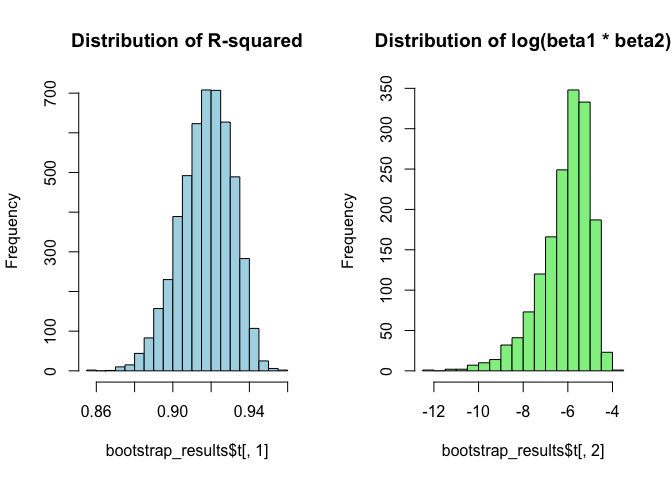
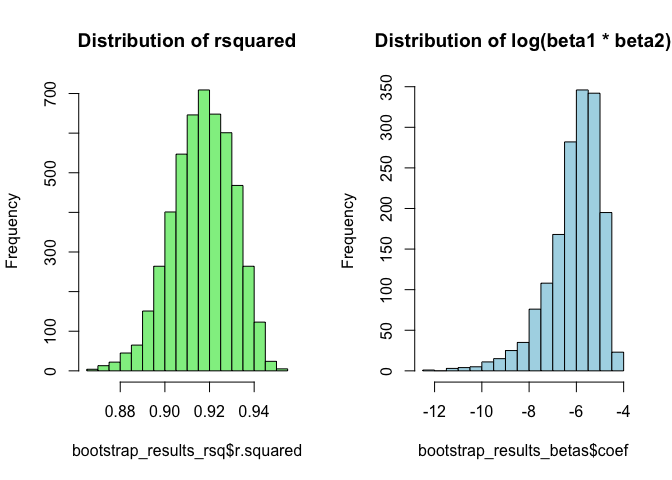
make some comments

diff --git a/p8105_hw6_sc5352.md b/p8105_hw6_sc5352.md
@@ -73,33 +73,6 @@ weather_df =
     ## file min/max dates: 1869-01-01 / 2023-11-30
 
 ``` r
-# lm_weather = lm(tmax ~ tmin + prcp, data = weather_df)
-# 
-# bootstrap_function = function(data, indices) {
-#   sampled_data = data[indices, ]
-#   lm_weather = lm(tmax ~ tmin + prcp, data = sampled_data)
-#   
-#   rsquared = glance(lm_weather)$r.squared
-#   coef_product = log(tidy(lm_weather)$estimate[2] * tidy(lm_weather)$estimate[3])
-#   
-#   return(c(rsquared, coef_product))
-# }
-# 
-# set.seed(123)
-# 
-# bootstrap_results <- boot(data = weather_df, statistic = bootstrap_function, R = 5000)
-# 
-# par(mfrow = c(1, 2))  # Set up a 1x2 grid for side-by-side plots
-# hist(bootstrap_results$t[, 1], main = "Distribution of R-squared", col = "lightblue")
-# hist(bootstrap_results$t[, 2], main = "Distribution of log(beta1 * beta2)", col = "lightgreen")
-# par(mfrow = c(1, 1))  # Reset the plot layout
-# 
-# # Identify the 2.5% and 97.5% quantiles
-# quantiles <- quantile(bootstrap_results$t, c(0.025, 0.975), na.rm = TRUE)
-# print(quantiles)
-```
-
-``` r
 set.seed(1)
 boot_sample = function(df) {
   sample_frac(df, replace = TRUE)
@@ -122,6 +95,20 @@ bootstrap_results_betas =
   pivot_wider(names_from = term, values_from = estimate) |>
   mutate(coef = log(tmin * prcp))
 
+proportion_coef_na = 
+  bootstrap_results_betas |>
+  filter(is.na(coef)) |>
+  summarise(count = n()) |>
+  mutate(proportion = count/5000)
+proportion_coef_na
+```
+
+    ## # A tibble: 1 × 2
+    ##   count proportion
+    ##   <int>      <dbl>
+    ## 1  3361      0.672
+
+``` r
 quantile_betas = 
   bootstrap_results_betas |>
   na.omit() |>
@@ -165,11 +152,17 @@ hist(bootstrap_results_rsq$r.squared, main = "Distribution of rsquared", col = "
 hist(bootstrap_results_betas$coef, main = "Distribution of log(beta1 * beta2)", col = "lightblue")
 ```
 
-![](p8105_hw6_sc5352_files/figure-gfm/unnamed-chunk-4-1.png)<!-- -->
+![](p8105_hw6_sc5352_files/figure-gfm/unnamed-chunk-3-1.png)<!-- -->
 
 ``` r
 par(mfrow = c(1, 1))
 ```
+
+After taking log of the beta 1 and 2, there are in total 3361 NAs, which
+account for about 67% of the whole dataset. For those `coef` are
+significant, the 95% quantile is -8.9815594, -4.6016727.
+
+The 95% quantile for `r_squared` is 0.8885495, 0.9406812.
 
 #### Problem 3
 
@@ -190,37 +183,45 @@ birthweight =
 model_1 = lm(bwt ~ delwt + wtgain + blength, data = birthweight)
 prediction_1 = add_predictions(birthweight, model_1)
 residual_1 = add_residuals(prediction_1, model_1)
-ggplot(residual_1,aes(x = pred, y = resid)) +
-  geom_point() +
-  geom_hline(yintercept = 0, linetype = "dashed", color = "red") +
-  labs(title = "Residuals vs Fitted Values", x = "Fitted Values", y = "Residuals")
-```
 
-![](p8105_hw6_sc5352_files/figure-gfm/unnamed-chunk-5-1.png)<!-- -->
-
-``` r
 model_lg = lm(bwt ~ blength + gaweeks, data = birthweight)
 prediction_lg = add_predictions(birthweight, model_lg)
 residual_lg = add_residuals(prediction_lg, model_lg)
-ggplot(residual_lg,aes(x = pred, y = resid)) +
-  geom_point() +
-  geom_hline(yintercept = 0, linetype = "dashed", color = "red") +
-  labs(title = "Residuals vs Fitted Values", x = "Fitted Values", y = "Residuals")
-```
 
-![](p8105_hw6_sc5352_files/figure-gfm/unnamed-chunk-5-2.png)<!-- -->
-
-``` r
 model_hls = lm(bwt ~ bhead * blength * babysex, data = birthweight)
 prediction_hls = add_predictions(birthweight, model_hls)
 residual_hls = add_residuals(prediction_hls, model_hls)
+
+par(mfrow = c(1, 3))
+ggplot(residual_1,aes(x = pred, y = resid)) +
+  geom_point() +
+  geom_hline(yintercept = 0, linetype = "dashed", color = "red") +
+  labs(title = "Model_1: Residuals vs Fitted Values", x = "Fitted Values", y = "Residuals")
+```
+
+![](p8105_hw6_sc5352_files/figure-gfm/unnamed-chunk-4-1.png)<!-- -->
+
+``` r
+ggplot(residual_lg,aes(x = pred, y = resid)) +
+  geom_point() +
+  geom_hline(yintercept = 0, linetype = "dashed", color = "red") +
+  labs(title = "Model_lg: Residuals vs Fitted Values", x = "Fitted Values", y = "Residuals")
+```
+
+![](p8105_hw6_sc5352_files/figure-gfm/unnamed-chunk-4-2.png)<!-- -->
+
+``` r
 ggplot(residual_hls,aes(x = pred, y = resid)) +
   geom_point() +
   geom_hline(yintercept = 0, linetype = "dashed", color = "red") +
-  labs(title = "Residuals vs Fitted Values", x = "Fitted Values", y = "Residuals")
+  labs(title = "Model_hls: Residuals vs Fitted Values", x = "Fitted Values", y = "Residuals")
 ```
 
-![](p8105_hw6_sc5352_files/figure-gfm/unnamed-chunk-5-3.png)<!-- -->
+![](p8105_hw6_sc5352_files/figure-gfm/unnamed-chunk-4-3.png)<!-- -->
+
+``` r
+par(mfrow = c(1, 1))
+```
 
 ``` r
 cv_df = 
@@ -248,4 +249,14 @@ cv_df =
 cv_df
 ```
 
-![](p8105_hw6_sc5352_files/figure-gfm/unnamed-chunk-6-1.png)<!-- -->
+![](p8105_hw6_sc5352_files/figure-gfm/unnamed-chunk-5-1.png)<!-- --> My
+model is `model_1`, which sets `baby’s length at birth (centimeteres)`,
+`mother’s weight at delivery (pounds)`, and
+`mother’s weight gain during pregnancy (pounds)` as the predictors.
+
+The mean of residuals for all three models are around 0.
+
+Finally, I plotted the prediction error distribution for each candidate
+model. and the `model_hls` that took `bhead`, `blength`, `babysex`, and
+their interactions as predictors, has the lowest mse. In the end, I’d
+probably go with the interaction model.
